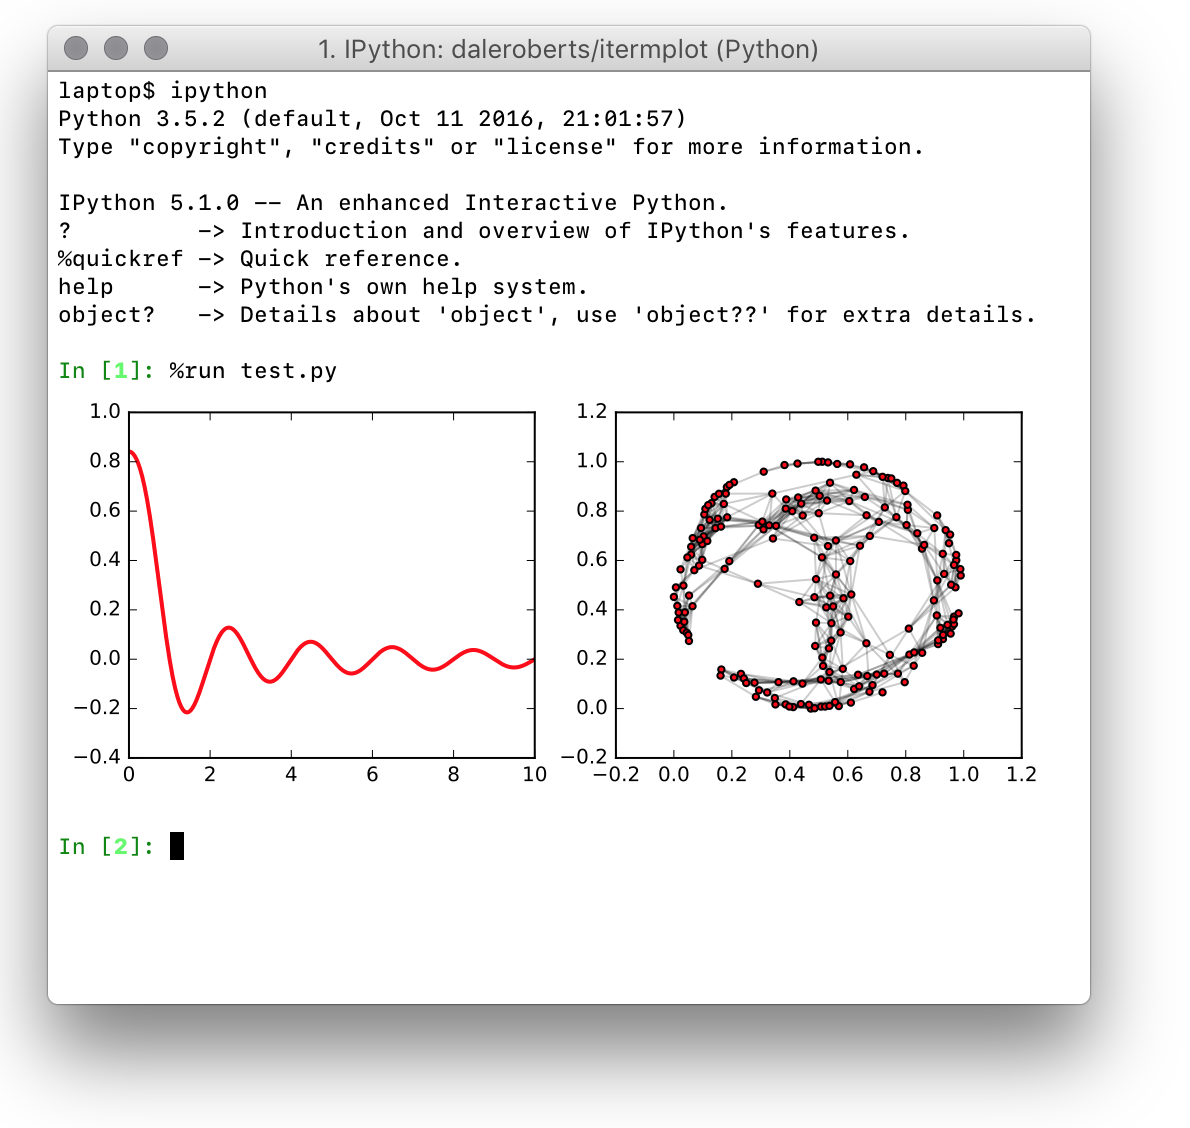
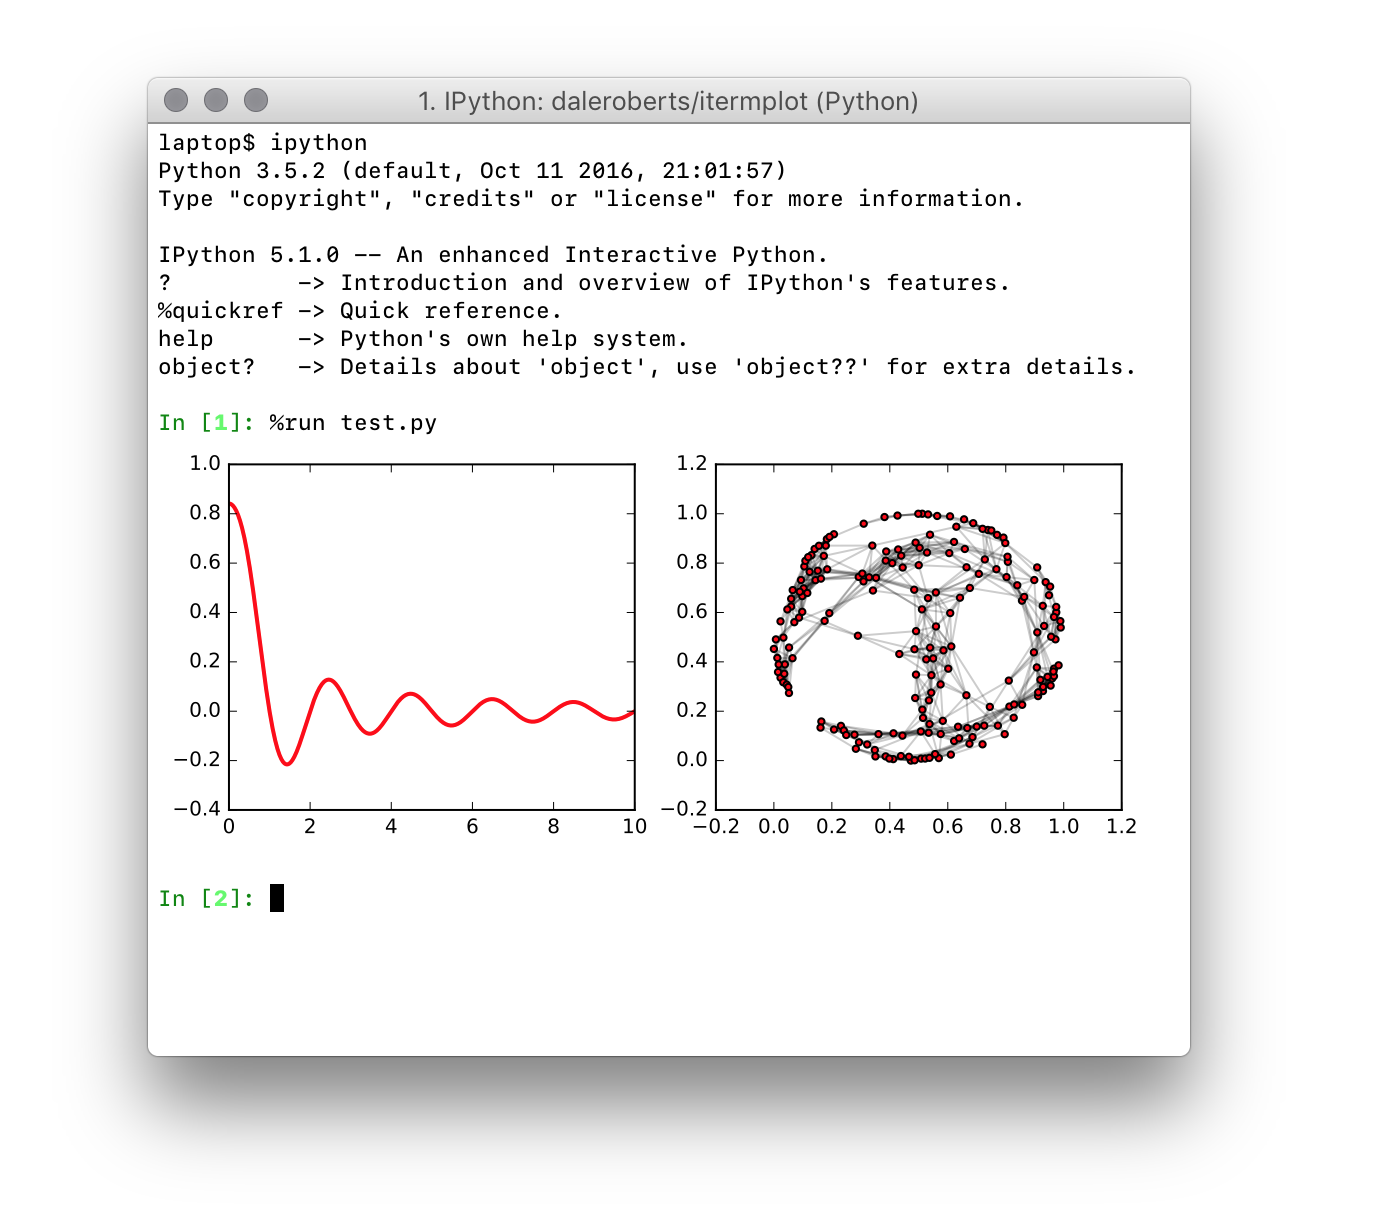
Tweak image.

Changed region(s): [[0.0, 0.031, 0.9639, 0.9619]]

diff --git a/README.md b/README.md
@@ -2,4 +2,4 @@
 
 An awesome iTerm2 backend for Matplotlib, so you can plot directly in your terminal.
 
-<img src="https://github.com/daleroberts/itermplot/raw/master/docs/subplots.png">
+<img src="https://github.com/daleroberts/itermplot/raw/master/docs/subplots.png" width="700">
